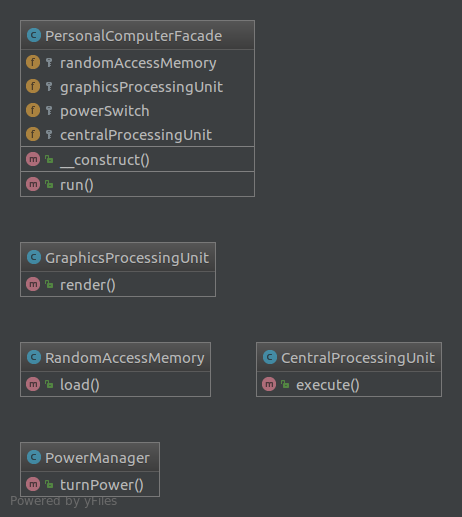
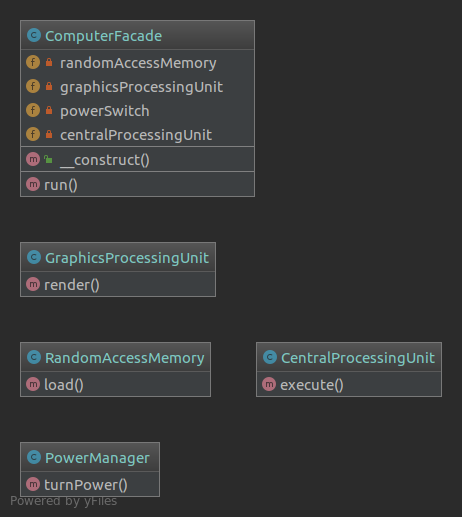
Update all style

diff --git a/tests/FacadeTest.php b/tests/FacadeTest.php
@@ -9,7 +9,7 @@ declare(strict_types=1);
 
 namespace Structural\Facade\Tests;
 
-use Structural\Facade\PersonalComputerFacade;
+use Structural\Facade\ComputerFacade;
 use PHPUnit\Framework\TestCase as PHPUnit_Framework_TestCase;
 
 /**
@@ -17,19 +17,26 @@ use PHPUnit\Framework\TestCase as PHPUnit_Framework_TestCase;
  */
 class FacadeTest extends PHPUnit_Framework_TestCase
 {
-
     /**
-     * @var PersonalComputerFacade
+     * @var ComputerFacade
      */
-    protected $computer;
+    private $computer;
 
     protected function setUp(): void
     {
-        $this->computer = new PersonalComputerFacade();
+        $this->computer = new ComputerFacade();
     }
 
     public function testPersonalComputerFacade()
     {
-        $this->assertEquals("PC run\nCPU run\nRAM run\nGPU run\n", $this->computer->run());
+        $this->assertEquals("PC run\nCPU run\nRAM run\nGPU run\n", $this->getComputer()->run());
+    }
+
+    /**
+     * @return ComputerFacade
+     */
+    public function getComputer(): ComputerFacade
+    {
+        return $this->computer;
     }
 }

diff --git a/src/ComputerFacade.php b/src/ComputerFacade.php
@@ -13,25 +13,24 @@ namespace Structural\Facade;
  * Class PersonalComputerFacade
  * @package Structural\Facade
  */
-class PersonalComputerFacade
+class ComputerFacade
 {
-
     /**
      * @var PowerManager
      */
-    protected $powerSwitch;
+    private $powerSwitch;
     /**
      * @var RandomAccessMemory
      */
-    protected $randomAccessMemory;
+    private $randomAccessMemory;
     /**
      * @var CentralProcessingUnit
      */
-    protected $centralProcessingUnit;
+    private $centralProcessingUnit;
     /**
      * @var GraphicsProcessingUnit
      */
-    protected $graphicsProcessingUnit;
+    private $graphicsProcessingUnit;
 
     /**
      * PersonalComputerFacade constructor.

diff --git a/src/CentralProcessingUnit.php b/src/CentralProcessingUnit.php
@@ -15,7 +15,6 @@ namespace Structural\Facade;
  */
 class CentralProcessingUnit
 {
-
     public function execute()
     {
         return "CPU run\n";

diff --git a/src/GraphicsProcessingUnit.php b/src/GraphicsProcessingUnit.php
@@ -15,7 +15,6 @@ namespace Structural\Facade;
  */
 class GraphicsProcessingUnit
 {
-
     public function render()
     {
         return "GPU run\n";

diff --git a/src/RandomAccessMemory.php b/src/RandomAccessMemory.php
@@ -14,7 +14,6 @@ namespace Structural\Facade;
  */
 class RandomAccessMemory
 {
-
     public function load()
     {
         return "RAM run\n";

diff --git a/src/PowerManager.php b/src/PowerManager.php
@@ -15,7 +15,6 @@ namespace Structural\Facade;
  */
 class PowerManager
 {
-
     public function turnPower()
     {
         return "PC run\n";

diff --git a/docs.md b/docs.md
@@ -1,21 +1,10 @@
 ## Table of contents
 
-- [\Structural\Facade\PersonalComputerFacade](#class-structuralfacadepersonalcomputerfacade)
 - [\Structural\Facade\CentralProcessingUnit](#class-structuralfacadecentralprocessingunit)
 - [\Structural\Facade\RandomAccessMemory](#class-structuralfacaderandomaccessmemory)
 - [\Structural\Facade\GraphicsProcessingUnit](#class-structuralfacadegraphicsprocessingunit)
+- [\Structural\Facade\ComputerFacade](#class-structuralfacadecomputerfacade)
 - [\Structural\Facade\PowerManager](#class-structuralfacadepowermanager)
-
-<hr />
-
-### Class: \Structural\Facade\PersonalComputerFacade
-
-> Class PersonalComputerFacade
-
-| Visibility | Function |
-|:-----------|:---------|
-| public | <strong>__construct()</strong> : <em>void</em><br /><em>PersonalComputerFacade constructor.</em> |
-| public | <strong>run()</strong> : <em>void</em> |
 
 <hr />
 
@@ -46,6 +35,17 @@
 | Visibility | Function |
 |:-----------|:---------|
 | public | <strong>render()</strong> : <em>void</em> |
+
+<hr />
+
+### Class: \Structural\Facade\ComputerFacade
+
+> Class PersonalComputerFacade
+
+| Visibility | Function |
+|:-----------|:---------|
+| public | <strong>__construct()</strong> : <em>void</em><br /><em>PersonalComputerFacade constructor.</em> |
+| public | <strong>run()</strong> : <em>void</em> |
 
 <hr />
 
